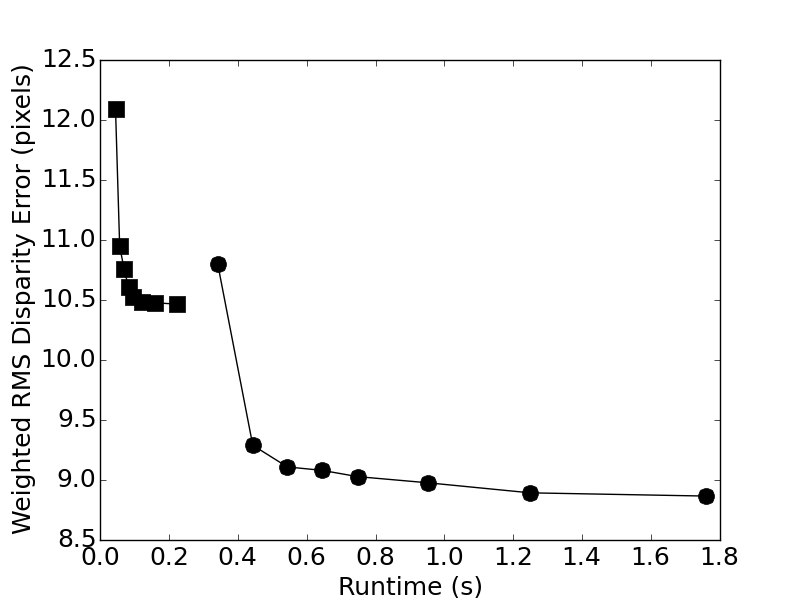
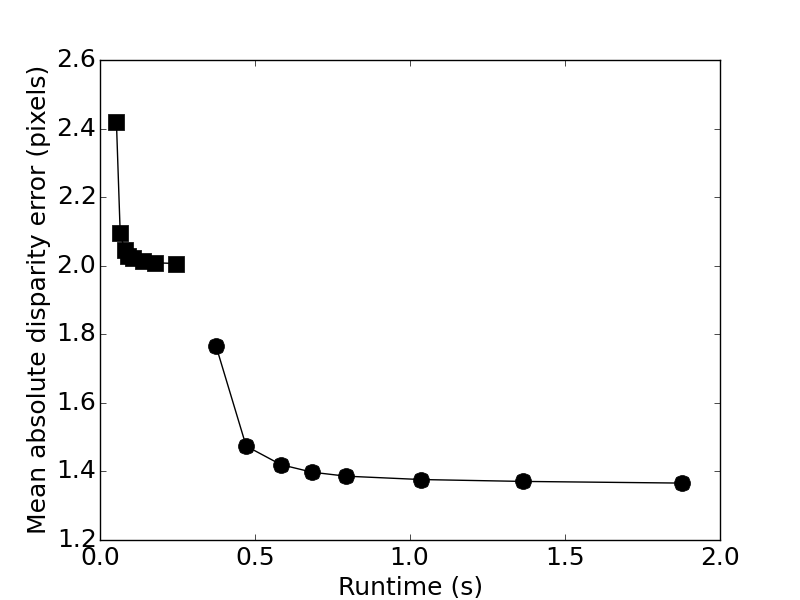
updating fovea rationale figure to use LIDAR ground truth, MAD error

diff --git a/code/figures.py b/code/figures.py
@@ -163,18 +163,17 @@ def rationale():
     with increasing runtime via further iterations at a given downfactor, but
     possibly too-high cost of using lower downfactor.
     """
-    source = KittiSource(51, 25)
-#     source = KittiSource(51, 100)
 
-    # TODO: is this weighted cost?
+#    n_frames = 194
+    n_frames = 50
 
     frame_down_factor = 1
-    frame_shape = downsample(source.video[0][0], frame_down_factor).shape
+    
+    source = KittiMultiViewSource(0)
+    full_shape = source.frame_ten[0].shape
+    frame_shape = downsample(source.frame_ten[0], frame_down_factor).shape
 
-    average_disparity = downsample(
-        get_average_disparity(source.ground_truth), frame_down_factor)
-
-    params = {'data_weight': 0.16145115747533928, 'disc_max': 294.1504935618425, 'data_max': 32.024780646200725, 'ksize': 3}
+    params = {'data_weight': 0.16145115747533928, 'disc_max': 294.1504935618425, 'data_max': 32.024780646200725, 'laplacian_ksize': 3}
 
 #     iterations = [1, 2, 3]
     iterations = [1, 2, 3, 4, 5, 7, 10, 15]
@@ -184,22 +183,24 @@ def rationale():
     mean_fine_costs = []
 
     for j in range(len(iterations)):
+        print(str(iterations[j]) + ' iterations')
         coarse_times = []
         coarse_costs = []
         fine_times = []
         fine_costs = []
 
-        for i in range(source.n_frames):
-            print(i)
+        for i in range(n_frames):
+            print(' frame ' + str(i))
 
-            coarse_down_factor = 2
-            fine_down_factor = 1
+            source = KittiMultiViewSource(i)
+            true_points = source.get_ground_truth_points(occluded=False)
+
             frame_down_factor = 1
 
-            coarse_time, coarse_cost = _evaluate_frame(source, i, frame_shape,
-                    frame_down_factor+1, frame_down_factor, iterations[j], average_disparity, params)
-            fine_time, fine_cost = _evaluate_frame(source, i, frame_shape,
-                    frame_down_factor+0, frame_down_factor, iterations[j], average_disparity, params)
+            coarse_time, coarse_cost = _evaluate_frame(source.frame_ten, true_points, frame_shape,
+                    full_shape, frame_down_factor+1, frame_down_factor, iterations[j], params)
+            fine_time, fine_cost = _evaluate_frame(source.frame_ten, true_points, frame_shape,
+                    full_shape, frame_down_factor+0, frame_down_factor, iterations[j], params)
 
             coarse_times.append(coarse_time)
             coarse_costs.append(coarse_cost)
@@ -219,7 +220,7 @@ def rationale():
     plt.plot(mean_coarse_times, mean_coarse_costs, color='k', marker='s', markersize=12)
     plt.plot(mean_fine_times, mean_fine_costs, color='k', marker='o', markersize=12)
     plt.xlabel('Runtime (s)', fontsize=18)
-    plt.ylabel('Weighted RMS Disparity Error (pixels)', fontsize=18)
+    plt.ylabel('Mean absolute disparity error (pixels)', fontsize=18)
     plt.gca().tick_params(labelsize='18')
     plt.show()
 
@@ -283,19 +284,19 @@ def foveation_sequence():
     plt.show()
 
 
-def _evaluate_frame(source, frame_num, frame_shape, down_factor, frame_down_factor, iters, average_disparity, params):
+def _evaluate_frame(frame, true_points, frame_shape, full_shape, down_factor, frame_down_factor, iters, params):
     values = 128/2**frame_down_factor
     start_time = time.time()
-    coarse_disp = coarse_bp(source.video[frame_num], down_factor=down_factor,
+    coarse_disp = coarse_bp(frame, down_factor=down_factor,
                             iters=iters, values=128, **params)
     disp = expand_coarse(coarse_disp, down_factor - frame_down_factor)
     disp = disp[:frame_shape[0],:frame_shape[1]]
     elapsed_time = time.time() - start_time
 
-#     true_disp = downsample(source.ground_truth[frame_num], frame_down_factor)
-#     return elapsed_time, cost(disp[:,values:], true_disp, average_disparity)
-    true_points = source.true_points[frame_num]
-    return elapsed_time, cost_on_points(disp[:,values:], true_points)
+#    unweighted_cost.append(cost_on_points(coarse_disp[:, values:], true_points, full_shape=full_shape))
+
+#    true_points = source.true_points[frame_num]
+    return elapsed_time, cost_on_points(disp[:,values:], true_points, full_shape=full_shape)
 
 def disparity_minus_mean():
     down_factor = 2
@@ -336,6 +337,6 @@ if __name__ == '__main__':
 #     smudge_vs_interp()
 #     seed_outside_fovea()
 #     importance()
-#     rationale()
-    foveation_sequence()
+    rationale()
+#    foveation_sequence()
 #    disparity_minus_mean()
